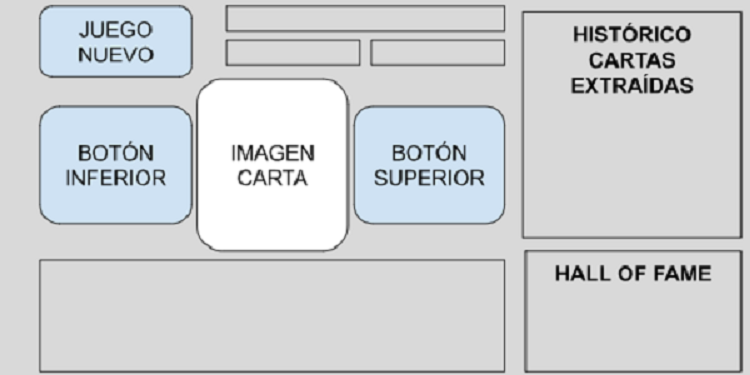
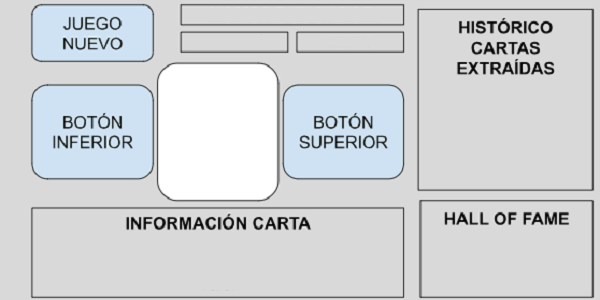
text works but not its function

diff --git a/assets.py b/assets.py
@@ -1,0 +1,182 @@
+# ----------------------------------------------------------------------------------------------------------------------
+import pygame
+pygame.init()
+import os
+# ----------------------------------------------------------------------------------------------------------------------
+# sizes
+WIDTH: int = 600
+HEIGHT: int = WIDTH/2
+
+# ----------------------------------------------------------------------------------------------------------------------
+# colors
+WHITE: tuple[int] = (255, 255, 255)
+BLACK: tuple[int] = (0, 0, 0)
+LIGHT_GREY: tuple[int] = (222, 222, 222)
+RED: tuple[int] = (204, 0, 0)
+DARK_GREY: tuple[int] = (66, 66, 66)
+
+# ----------------------------------------------------------------------------------------------------------------------
+# images
+PLAY_STAGE_IMAGE = pygame.image.load(
+    os.path.join('assets', 'play_stage.png'))
+PLAY_STAGE = pygame.transform.scale(PLAY_STAGE_IMAGE, (WIDTH, HEIGHT))
+
+NAME_STAGE_IMAGE = pygame.image.load(
+    os.path.join('assets', 'name_stage.png'))
+NAME_STAGE= pygame.transform.scale(NAME_STAGE_IMAGE, (WIDTH, HEIGHT))
+
+TUTORIAL_STAGE_IMAGE = pygame.image.load(
+    os.path.join('assets', 'tutorial_stage.png'))
+TUTORIAL_STAGE = pygame.transform.scale(TUTORIAL_STAGE_IMAGE, (WIDTH, HEIGHT))
+
+# baraja = []
+
+# suits = ['Clubs', 'Diamonds', 'Hearts', 'Spades']
+# ranks = ['A', '2', '3', '4', '5', '6', '7', '8', '9', '10', 'J', 'Q', 'K']
+
+# for suit in suits:
+#     for rank in ranks:
+#         card_name = f"card{suit}{rank}.png"
+#         baraja.append(card_name)
+
+# print(baraja)
+
+# Lista de nombres de las imágenes de las cartas
+cards = ['cardClubsA.png', 'cardClubs2.png', 'cardClubs3.png', 'cardClubs4.png', 'cardClubs5.png', 'cardClubs6.png',
+         'cardClubs7.png', 'cardClubs8.png', 'cardClubs9.png', 'cardClubs10.png', 'cardClubsJ.png', 'cardClubsQ.png',
+         'cardClubsK.png', 'cardDiamondsA.png', 'cardDiamonds2.png', 'cardDiamonds3.png', 'cardDiamonds4.png',
+         'cardDiamonds5.png', 'cardDiamonds6.png', 'cardDiamonds7.png', 'cardDiamonds8.png', 'cardDiamonds9.png',
+         'cardDiamonds10.png', 'cardDiamondsJ.png', 'cardDiamondsQ.png', 'cardDiamondsK.png', 'cardHeartsA.png',
+         'cardHearts2.png', 'cardHearts3.png', 'cardHearts4.png', 'cardHearts5.png', 'cardHearts6.png', 'cardHearts7.png',
+         'cardHearts8.png', 'cardHearts9.png', 'cardHearts10.png', 'cardHeartsJ.png', 'cardHeartsQ.png', 'cardHeartsK.png',
+         'cardSpadesA.png', 'cardSpades2.png', 'cardSpades3.png', 'cardSpades4.png', 'cardSpades5.png', 'cardSpades6.png',
+         'cardSpades7.png', 'cardSpades8.png', 'cardSpades9.png', 'cardSpades10.png', 'cardSpadesJ.png', 'cardSpadesQ.png',
+         'cardSpadesK.png']
+
+# Generación del código para rellenar
+for card in cards:
+    card_name_upper = card.split('.')[0].upper()  # Convierte el nombre de la imagen a mayúsculas
+    card_name_lower = card.split('.')[0].lower()  # Convierte el nombre de la imagen a minúsculas
+    print(f"{card_name_upper}_IMAGE = pygame.image.load(os.path.join('assets', '{card_name_lower}.png'))")
+    print(f"{card_name_upper} = pygame.transform.scale({card_name_upper}_IMAGE, (WIDTH, HEIGHT))")
+
+CARDCLUBSA_IMAGE = pygame.image.load(
+    os.path.join('assets', 'cardClubsA.png'))
+CARDCLUBSA = pygame.transform.scale(CARDCLUBSA_IMAGE, (WIDTH, HEIGHT))
+
+# {NOMBRE_IMAGEN_EN_MAYUSCULAS}_IMAGE = pygame.image.load(
+#     os.path.join('assets', '{nombre_imagen_en_minusculas}.png'))
+# {NOMBRE_IMAGEN_EN_MAYUSCULAS} = pygame.transform.scale({NOMBRE_IMAGEN_EN_MAYUSCULAS}_IMAGE, (WIDTH, HEIGHT))
+
+['cardClubsA.png', 'cardClubs2.png', 'cardClubs3.png', 'cardClubs4.png', 'cardClubs5.png', 'cardClubs6.png', 'cardClubs7.png', 'cardClubs8.png', 'cardClubs9.png', 'cardClubs10.png', 
+'cardClubsJ.png', 'cardClubsQ.png', 'cardClubsK.png', 'cardDiamondsA.png', 'cardDiamonds2.png', 'cardDiamonds3.png', 'cardDiamonds4.png', 'cardDiamonds5.png', 'cardDiamonds6.png', 'cardDiamonds7.png', 'cardDiamonds8.png', 'cardDiamonds9.png', 'cardDiamonds10.png', 'cardDiamondsJ.png', 'cardDiamondsQ.png', 'cardDiamondsK.png', 'cardHeartsA.png', 'cardHearts2.png', 'cardHearts3.png', 'cardHearts4.png', 'cardHearts5.png', 'cardHearts6.png', 'cardHearts7.png', 'cardHearts8.png', 'cardHearts9.png', 'cardHearts10.png', 'cardHeartsJ.png', 'cardHeartsQ.png', 'cardHeartsK.png', 'cardSpadesA.png', 'cardSpades2.png', 'cardSpades3.png', 'cardSpades4.png', 'cardSpades5.png', 'cardSpades6.png', 'cardSpades7.png', 'cardSpades8.png', 
+'cardSpades9.png', 'cardSpades10.png', 'cardSpadesJ.png', 'cardSpadesQ.png', 'cardSpadesK.png']
+
+CARDCLUBSA_IMAGE = pygame.image.load(os.path.join('assets', 'cardclubsa.png'))
+CARDCLUBSA = pygame.transform.scale(CARDCLUBSA_IMAGE, (WIDTH, HEIGHT))
+CARDCLUBS2_IMAGE = pygame.image.load(os.path.join('assets', 'cardclubs2.png'))
+CARDCLUBS2 = pygame.transform.scale(CARDCLUBS2_IMAGE, (WIDTH, HEIGHT))
+CARDCLUBS3_IMAGE = pygame.image.load(os.path.join('assets', 'cardclubs3.png'))
+CARDCLUBS3 = pygame.transform.scale(CARDCLUBS3_IMAGE, (WIDTH, HEIGHT))
+CARDCLUBS4_IMAGE = pygame.image.load(os.path.join('assets', 'cardclubs4.png'))
+CARDCLUBS4 = pygame.transform.scale(CARDCLUBS4_IMAGE, (WIDTH, HEIGHT))
+CARDCLUBS5_IMAGE = pygame.image.load(os.path.join('assets', 'cardclubs5.png'))
+CARDCLUBS5 = pygame.transform.scale(CARDCLUBS5_IMAGE, (WIDTH, HEIGHT))
+CARDCLUBS6_IMAGE = pygame.image.load(os.path.join('assets', 'cardclubs6.png'))
+CARDCLUBS6 = pygame.transform.scale(CARDCLUBS6_IMAGE, (WIDTH, HEIGHT))
+CARDCLUBS7_IMAGE = pygame.image.load(os.path.join('assets', 'cardclubs7.png'))
+CARDCLUBS7 = pygame.transform.scale(CARDCLUBS7_IMAGE, (WIDTH, HEIGHT))
+CARDCLUBS8_IMAGE = pygame.image.load(os.path.join('assets', 'cardclubs8.png'))
+CARDCLUBS8 = pygame.transform.scale(CARDCLUBS8_IMAGE, (WIDTH, HEIGHT))
+CARDCLUBS9_IMAGE = pygame.image.load(os.path.join('assets', 'cardclubs9.png'))
+CARDCLUBS9 = pygame.transform.scale(CARDCLUBS9_IMAGE, (WIDTH, HEIGHT))
+CARDCLUBS10_IMAGE = pygame.image.load(os.path.join('assets', 'cardclubs10.png'))
+CARDCLUBS10 = pygame.transform.scale(CARDCLUBS10_IMAGE, (WIDTH, HEIGHT))
+CARDCLUBSJ_IMAGE = pygame.image.load(os.path.join('assets', 'cardclubsj.png'))
+CARDCLUBSJ = pygame.transform.scale(CARDCLUBSJ_IMAGE, (WIDTH, HEIGHT))
+CARDCLUBSQ_IMAGE = pygame.image.load(os.path.join('assets', 'cardclubsq.png'))
+CARDCLUBSQ = pygame.transform.scale(CARDCLUBSQ_IMAGE, (WIDTH, HEIGHT))
+CARDCLUBSK_IMAGE = pygame.image.load(os.path.join('assets', 'cardclubsk.png'))
+CARDCLUBSK = pygame.transform.scale(CARDCLUBSK_IMAGE, (WIDTH, HEIGHT))
+CARDDIAMONDSA_IMAGE = pygame.image.load(os.path.join('assets', 'carddiamondsa.png'))
+CARDDIAMONDSA = pygame.transform.scale(CARDDIAMONDSA_IMAGE, (WIDTH, HEIGHT))
+CARDDIAMONDS2_IMAGE = pygame.image.load(os.path.join('assets', 'carddiamonds2.png'))
+CARDDIAMONDS2 = pygame.transform.scale(CARDDIAMONDS2_IMAGE, (WIDTH, HEIGHT))
+CARDDIAMONDS3_IMAGE = pygame.image.load(os.path.join('assets', 'carddiamonds3.png'))
+CARDDIAMONDS3 = pygame.transform.scale(CARDDIAMONDS3_IMAGE, (WIDTH, HEIGHT))
+CARDDIAMONDS4_IMAGE = pygame.image.load(os.path.join('assets', 'carddiamonds4.png'))
+CARDDIAMONDS4 = pygame.transform.scale(CARDDIAMONDS4_IMAGE, (WIDTH, HEIGHT))
+CARDDIAMONDS5_IMAGE = pygame.image.load(os.path.join('assets', 'carddiamonds5.png'))
+CARDDIAMONDS5 = pygame.transform.scale(CARDDIAMONDS5_IMAGE, (WIDTH, HEIGHT))
+CARDDIAMONDS6_IMAGE = pygame.image.load(os.path.join('assets', 'carddiamonds6.png'))
+CARDDIAMONDS6 = pygame.transform.scale(CARDDIAMONDS6_IMAGE, (WIDTH, HEIGHT))
+CARDDIAMONDS7_IMAGE = pygame.image.load(os.path.join('assets', 'carddiamonds7.png'))
+CARDDIAMONDS7 = pygame.transform.scale(CARDDIAMONDS7_IMAGE, (WIDTH, HEIGHT))
+CARDDIAMONDS8_IMAGE = pygame.image.load(os.path.join('assets', 'carddiamonds8.png'))
+CARDDIAMONDS8 = pygame.transform.scale(CARDDIAMONDS8_IMAGE, (WIDTH, HEIGHT))
+CARDDIAMONDS9_IMAGE = pygame.image.load(os.path.join('assets', 'carddiamonds9.png'))
+CARDDIAMONDS9 = pygame.transform.scale(CARDDIAMONDS9_IMAGE, (WIDTH, HEIGHT))
+CARDDIAMONDS10_IMAGE = pygame.image.load(os.path.join('assets', 'carddiamonds10.png'))
+CARDDIAMONDS10 = pygame.transform.scale(CARDDIAMONDS10_IMAGE, (WIDTH, HEIGHT))
+CARDDIAMONDSJ_IMAGE = pygame.image.load(os.path.join('assets', 'carddiamondsj.png'))
+CARDDIAMONDSJ = pygame.transform.scale(CARDDIAMONDSJ_IMAGE, (WIDTH, HEIGHT))
+CARDDIAMONDSQ_IMAGE = pygame.image.load(os.path.join('assets', 'carddiamondsq.png'))
+CARDDIAMONDSQ = pygame.transform.scale(CARDDIAMONDSQ_IMAGE, (WIDTH, HEIGHT))
+CARDDIAMONDSK_IMAGE = pygame.image.load(os.path.join('assets', 'carddiamondsk.png'))
+CARDDIAMONDSK = pygame.transform.scale(CARDDIAMONDSK_IMAGE, (WIDTH, HEIGHT))
+CARDHEARTSA_IMAGE = pygame.image.load(os.path.join('assets', 'cardheartsa.png'))
+CARDHEARTSA = pygame.transform.scale(CARDHEARTSA_IMAGE, (WIDTH, HEIGHT))
+CARDHEARTS2_IMAGE = pygame.image.load(os.path.join('assets', 'cardhearts2.png'))
+CARDHEARTS2 = pygame.transform.scale(CARDHEARTS2_IMAGE, (WIDTH, HEIGHT))
+CARDHEARTS3_IMAGE = pygame.image.load(os.path.join('assets', 'cardhearts3.png'))
+CARDHEARTS3 = pygame.transform.scale(CARDHEARTS3_IMAGE, (WIDTH, HEIGHT))
+CARDHEARTS4_IMAGE = pygame.image.load(os.path.join('assets', 'cardhearts4.png'))
+CARDHEARTS4 = pygame.transform.scale(CARDHEARTS4_IMAGE, (WIDTH, HEIGHT))
+CARDHEARTS5_IMAGE = pygame.image.load(os.path.join('assets', 'cardhearts5.png'))
+CARDHEARTS5 = pygame.transform.scale(CARDHEARTS5_IMAGE, (WIDTH, HEIGHT))
+CARDHEARTS6_IMAGE = pygame.image.load(os.path.join('assets', 'cardhearts6.png'))
+CARDHEARTS6 = pygame.transform.scale(CARDHEARTS6_IMAGE, (WIDTH, HEIGHT))
+CARDHEARTS7_IMAGE = pygame.image.load(os.path.join('assets', 'cardhearts7.png'))
+CARDHEARTS7 = pygame.transform.scale(CARDHEARTS7_IMAGE, (WIDTH, HEIGHT))
+CARDHEARTS8_IMAGE = pygame.image.load(os.path.join('assets', 'cardhearts8.png'))
+CARDHEARTS8 = pygame.transform.scale(CARDHEARTS8_IMAGE, (WIDTH, HEIGHT))
+CARDHEARTS9_IMAGE = pygame.image.load(os.path.join('assets', 'cardhearts9.png'))
+CARDHEARTS9 = pygame.transform.scale(CARDHEARTS9_IMAGE, (WIDTH, HEIGHT))
+CARDHEARTS10_IMAGE = pygame.image.load(os.path.join('assets', 'cardhearts10.png'))
+CARDHEARTS10 = pygame.transform.scale(CARDHEARTS10_IMAGE, (WIDTH, HEIGHT))
+CARDHEARTSJ_IMAGE = pygame.image.load(os.path.join('assets', 'cardheartsj.png'))
+CARDHEARTSJ = pygame.transform.scale(CARDHEARTSJ_IMAGE, (WIDTH, HEIGHT))
+CARDHEARTSQ_IMAGE = pygame.image.load(os.path.join('assets', 'cardheartsq.png'))
+CARDHEARTSQ = pygame.transform.scale(CARDHEARTSQ_IMAGE, (WIDTH, HEIGHT))
+CARDHEARTSK_IMAGE = pygame.image.load(os.path.join('assets', 'cardheartsk.png'))
+CARDHEARTSK = pygame.transform.scale(CARDHEARTSK_IMAGE, (WIDTH, HEIGHT))
+CARDSPADESA_IMAGE = pygame.image.load(os.path.join('assets', 'cardspadesa.png'))
+CARDSPADESA = pygame.transform.scale(CARDSPADESA_IMAGE, (WIDTH, HEIGHT))
+CARDSPADES2_IMAGE = pygame.image.load(os.path.join('assets', 'cardspades2.png'))
+CARDSPADES2 = pygame.transform.scale(CARDSPADES2_IMAGE, (WIDTH, HEIGHT))
+CARDSPADES3_IMAGE = pygame.image.load(os.path.join('assets', 'cardspades3.png'))
+CARDSPADES3 = pygame.transform.scale(CARDSPADES3_IMAGE, (WIDTH, HEIGHT))
+CARDSPADES4_IMAGE = pygame.image.load(os.path.join('assets', 'cardspades4.png'))
+CARDSPADES4 = pygame.transform.scale(CARDSPADES4_IMAGE, (WIDTH, HEIGHT))
+CARDSPADES5_IMAGE = pygame.image.load(os.path.join('assets', 'cardspades5.png'))
+CARDSPADES5 = pygame.transform.scale(CARDSPADES5_IMAGE, (WIDTH, HEIGHT))
+CARDSPADES6_IMAGE = pygame.image.load(os.path.join('assets', 'cardspades6.png'))
+CARDSPADES6 = pygame.transform.scale(CARDSPADES6_IMAGE, (WIDTH, HEIGHT))
+CARDSPADES7_IMAGE = pygame.image.load(os.path.join('assets', 'cardspades7.png'))
+CARDSPADES7 = pygame.transform.scale(CARDSPADES7_IMAGE, (WIDTH, HEIGHT))
+CARDSPADES8_IMAGE = pygame.image.load(os.path.join('assets', 'cardspades8.png'))
+CARDSPADES8 = pygame.transform.scale(CARDSPADES8_IMAGE, (WIDTH, HEIGHT))
+CARDSPADES9_IMAGE = pygame.image.load(os.path.join('assets', 'cardspades9.png'))
+CARDSPADES9 = pygame.transform.scale(CARDSPADES9_IMAGE, (WIDTH, HEIGHT))
+CARDSPADES10_IMAGE = pygame.image.load(os.path.join('assets', 'cardspades10.png'))
+CARDSPADES10 = pygame.transform.scale(CARDSPADES10_IMAGE, (WIDTH, HEIGHT))
+CARDSPADESJ_IMAGE = pygame.image.load(os.path.join('assets', 'cardspadesj.png'))
+CARDSPADESJ = pygame.transform.scale(CARDSPADESJ_IMAGE, (WIDTH, HEIGHT))
+CARDSPADESQ_IMAGE = pygame.image.load(os.path.join('assets', 'cardspadesq.png'))
+CARDSPADESQ = pygame.transform.scale(CARDSPADESQ_IMAGE, (WIDTH, HEIGHT))
+CARDSPADESK_IMAGE = pygame.image.load(os.path.join('assets', 'cardspadesk.png'))
+CARDSPADESK = pygame.transform.scale(CARDSPADESK_IMAGE, (WIDTH, HEIGHT))
+
+# others
+FPS = 60
+

diff --git a/main.py b/main.py
@@ -1,95 +1,91 @@
 # ----------------------------------------------------------------------------------------------------------------------
 # imports
-import pygame, os, random, json
-from icecream import ic
+import pygame
 pygame.init()
-
-
-def output_to_file(text:str) -> None:
-    with open('debug_log.txt', 'a') as f:
-        f.write(f'{text}\n')
-
-ic.configureOutput(prefix='Debug| ', outputFunction = output_to_file, includeContext=True)
-
-# ----------------------------------------------------------------------------------------------------------------------
-# constants
-## window
-
+import assets, json
+from icecream import ic
 pygame.display.set_caption('HoL')
-WIDTH: int = 700
-HEIGHT: int = 375
-#FIXME segons condicions foto
 
-WIN = pygame.display.set_mode((WIDTH, HEIGHT))
-
-## colors
-WHITE: tuple[int] = (255, 255, 255)
-BLACK: tuple[int] = (0, 0, 0)
-LIGHT_GREY: tuple[int] = (222, 222, 222)
-RED: tuple[int] = (204, 0, 0)
-DARK_GREY: tuple[int] = (66, 66, 66)
-
-## assets
-PLAY_STAGE_IMAGE = pygame.image.load(
-    os.path.join('assets', 'play_stage.png'))
-PLAY_STAGE = pygame.transform.scale(PLAY_STAGE_IMAGE, (WIDTH, HEIGHT))
-
-NAME_STAGE_IMAGE = pygame.image.load(
-    os.path.join('assets', 'name_stage.png'))
-NAME_STAGE= pygame.transform.scale(NAME_STAGE_IMAGE, (WIDTH, HEIGHT))
-
-TUTORIAL_STAGE_IMAGE = pygame.image.load(
-    os.path.join('assets', 'tutorial_stage.png'))
-TUTORIAL_STAGE = pygame.transform.scale(TUTORIAL_STAGE_IMAGE, (WIDTH, HEIGHT))
-
-## others
-FPS: int = 60
+WIN = pygame.display.set_mode((assets.WIDTH, assets.HEIGHT))
 font = pygame.font.Font(None, 36)
 
 # ----------------------------------------------------------------------------------------------------------------------
 # classes and functions
-def draw_window(stage) -> None:
-    WIN.fill(WHITE)
-    render_images(stage)
+# TODO separar en funcions petites tots els textos en una funció per cada 'etapa' del joc (posar el nom, instruccions, joc) 
+def draw_window(stage: str, seconds: int) -> None:
+    handle_click(stage)
     render_texts(stage)
+    render_images(stage)
     pygame.display.update()
 
-# TODO separar en funcions petites tots els textos en una funció per cada 'etapa' del joc (posar el nom, instruccions, joc) 
-
-def render_texts(stage: str) -> None:
-    match stage:
-        case "name":
-            render_text("", font, BLACK, 100, 100)
-            render_text("", font, BLACK, 100, 100)
-
-        case "tutorial":
-            ...
-
-        case "play":
-            ...
-
-
-def render_text(text, font, color, x, y) -> None:
-    text_surface = font.render(text, True, color)
-    WIN.blit(text_surface, (x, y))
 
 def render_images(stage) -> None:
     WIN.blit(stage, (0, 0))
+    # WIN.blit(assets.CARDCLUBS6, (0, 0))
 
+
+def render_texts(stage: str) -> None:
+    if stage == assets.NAME_STAGE:
+        text_surface = font.render("text", True, assets.BLACK)
+        WIN.blit(text_surface, (0, 0))
+
+    elif stage == assets.TUTORIAL_STAGE:
+        ...
+
+    elif stage == assets.PLAY_STAGE:
+        ...
+
+
+def handle_name(event) -> None:
+    name_input = "hola"
+    if event.type == pygame.KEYDOWN:
+        if event.key == pygame.K_RETURN:
+            return name_input
+
+        elif event.key == pygame.K_BACKSPACE:
+            name_input = name_input[:-1] # Borra el ultimo character que se ha escrito
+
+        else:
+            name_input += event.unicode
+
+
+def handle_click(stage) -> None:
+    for event in pygame.event.get():
+        if event.type == pygame.QUIT:
+            pygame.quit()
+
+        elif stage == assets.NAME_STAGE:
+            handle_name(event)
+
+        elif stage == assets.TUTORIAL_STAGE:
+            ...
+
+        elif stage == assets.PLAY_STAGE:
+            ...
+
+def save_user_data(name: str, time_taken: int) -> None: # TODO usar aquesta funció
+    top_scores: list[dict[str, int]] = []
+    with open('top_scores.json', 'r') as file:
+        top_scores = json.load(file)
+
+    top_scores.append({'name': name, 'time_taken': time_taken})
+    top_scores.sort(key=lambda x: x['time_taken']) # sort by time_taken
+
+    with open('top_scores.json', 'w') as file:
+        json.dump(top_scores[:3], file) # save only the 5 names first from top_scores
 
 ## main loop
 def main() -> None:
     clock = pygame.time.Clock()
+    start_time: int = pygame.time.get_ticks()
     run = True
-    stage = NAME_STAGE
+    stage: str = assets.NAME_STAGE
 
     while run:
-        for event in pygame.event.get():
-            if event.type == pygame.QUIT:
-                run = False
-
-        clock.tick(FPS)
-        draw_window(stage)
+        current_time: int = pygame.time.get_ticks()
+        chronometer: int = (current_time - start_time) / 1000
+        clock.tick(assets.FPS)
+        draw_window(stage, chronometer)
     pygame.quit()
 
 if __name__ == '__main__':
